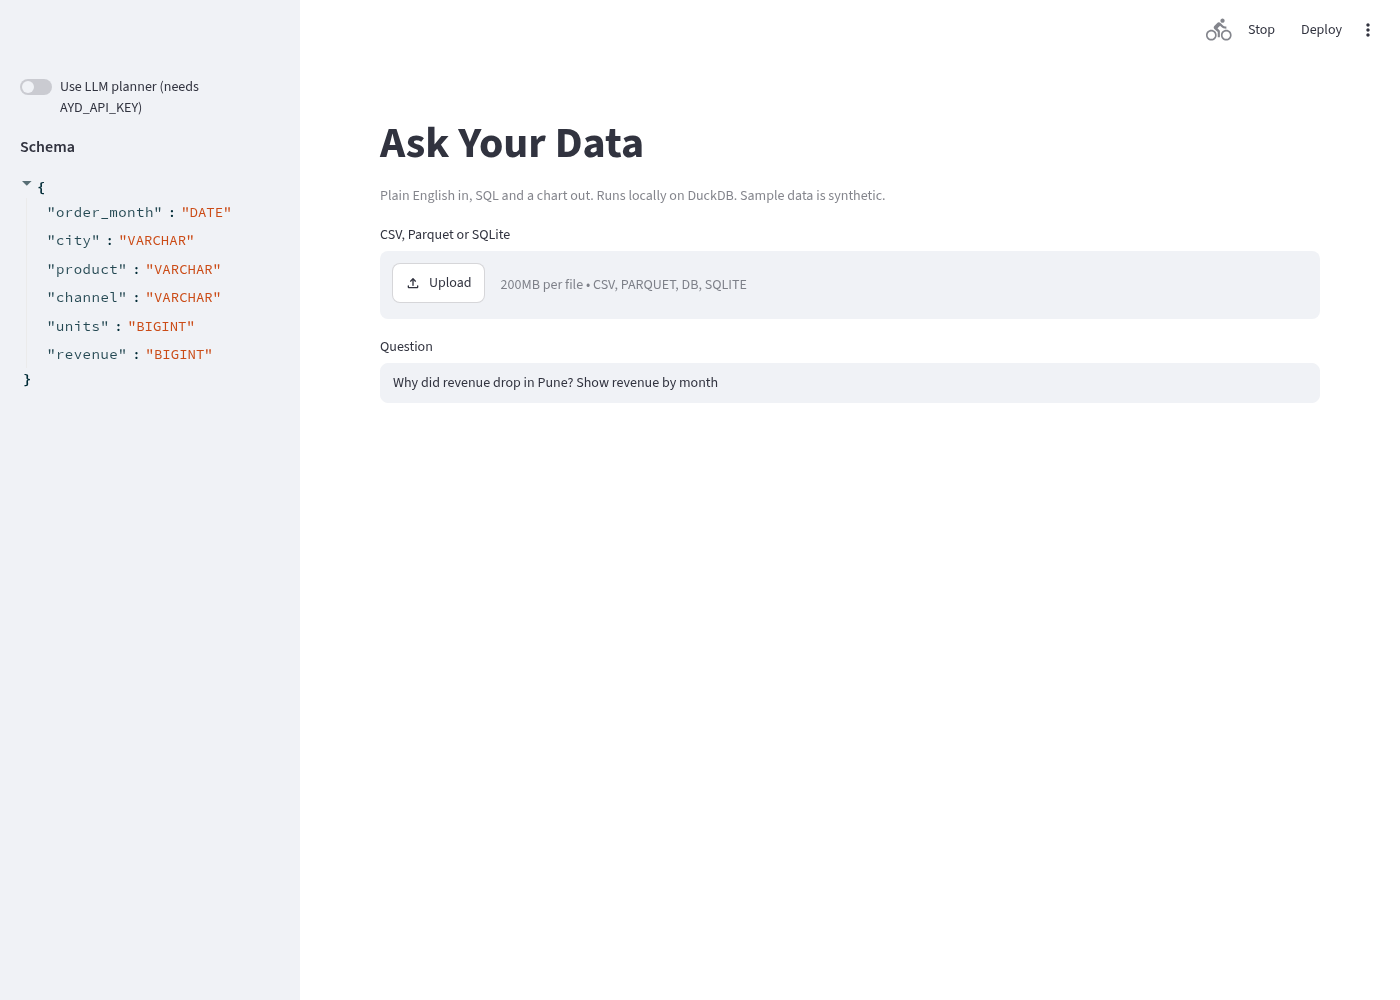
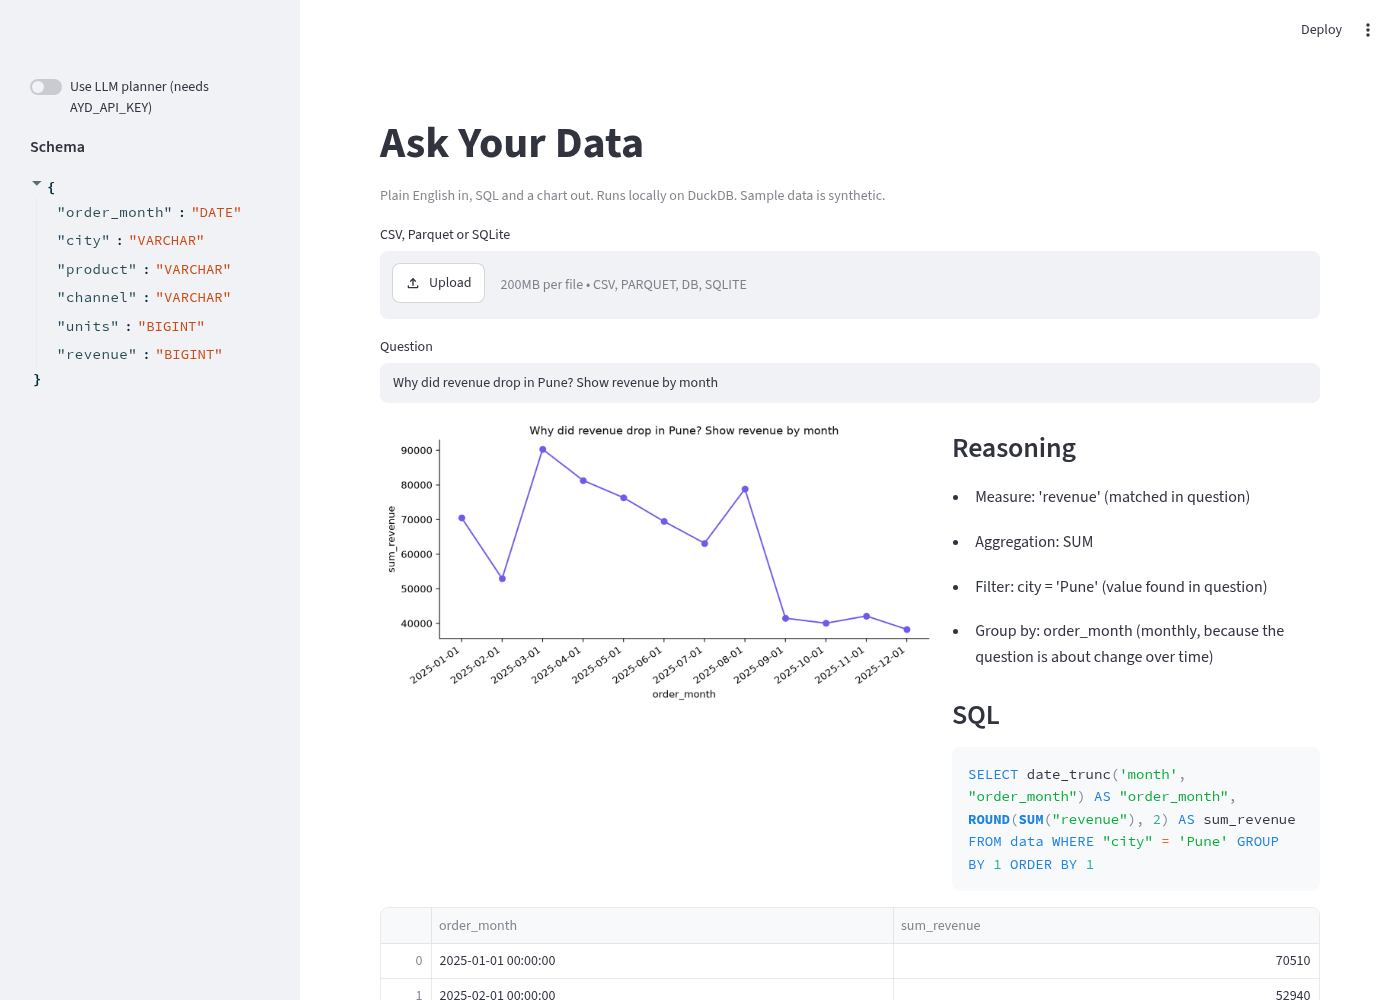
UI: fix stray Streamlit output, wrap SQL; retake screenshot with answer and chart

diff --git a/app.py b/app.py
@@ -12,12 +12,15 @@ if up:
     tmp = tempfile.NamedTemporaryFile(delete=False, suffix="." + up.name.split(".")[-1]); tmp.write(up.read()); path = tmp.name
 use_llm = st.sidebar.toggle("Use LLM planner (needs AYD_API_KEY)", value=False)
 ask = Ask(path, planner=LLMPlanner() if use_llm else RuleBasedPlanner())
-st.sidebar.write("**Schema**"); st.sidebar.json(ask.schema)
+st.sidebar.write("**Schema**")
+st.sidebar.json(ask.schema)
 q = st.text_input("Question", "Why did revenue drop in Pune? Show revenue by month")
 if q:
     ans = ask.ask(q)
     c1, c2 = st.columns([3, 2])
     c1.pyplot(ans.chart())
-    c2.subheader("Reasoning"); [c2.markdown(f"- {r}") for r in ans.plan.reasoning]
-    c2.subheader("SQL"); c2.code(ans.plan.sql, language="sql")
-    st.dataframe(ans.df, use_container_width=True)
+    c2.subheader("Reasoning")
+    for r in ans.plan.reasoning:
+        c2.markdown(f"- {r}")
+    c2.subheader("SQL"); c2.code(ans.plan.sql, language="sql", wrap_lines=True)
+    st.dataframe(ans.df, width="stretch")
